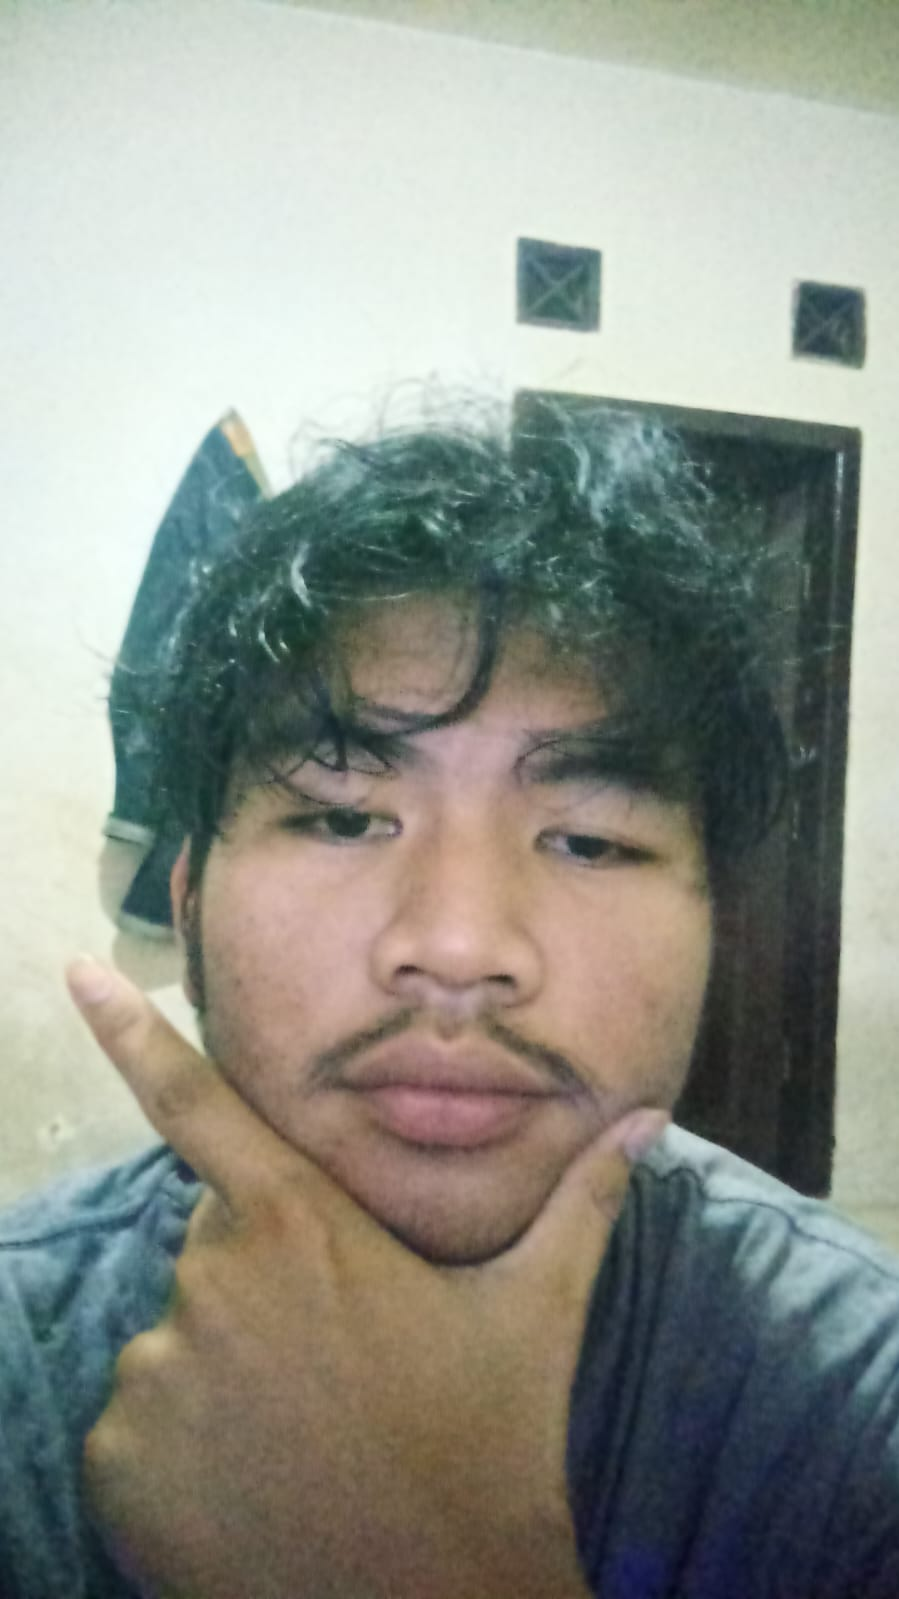
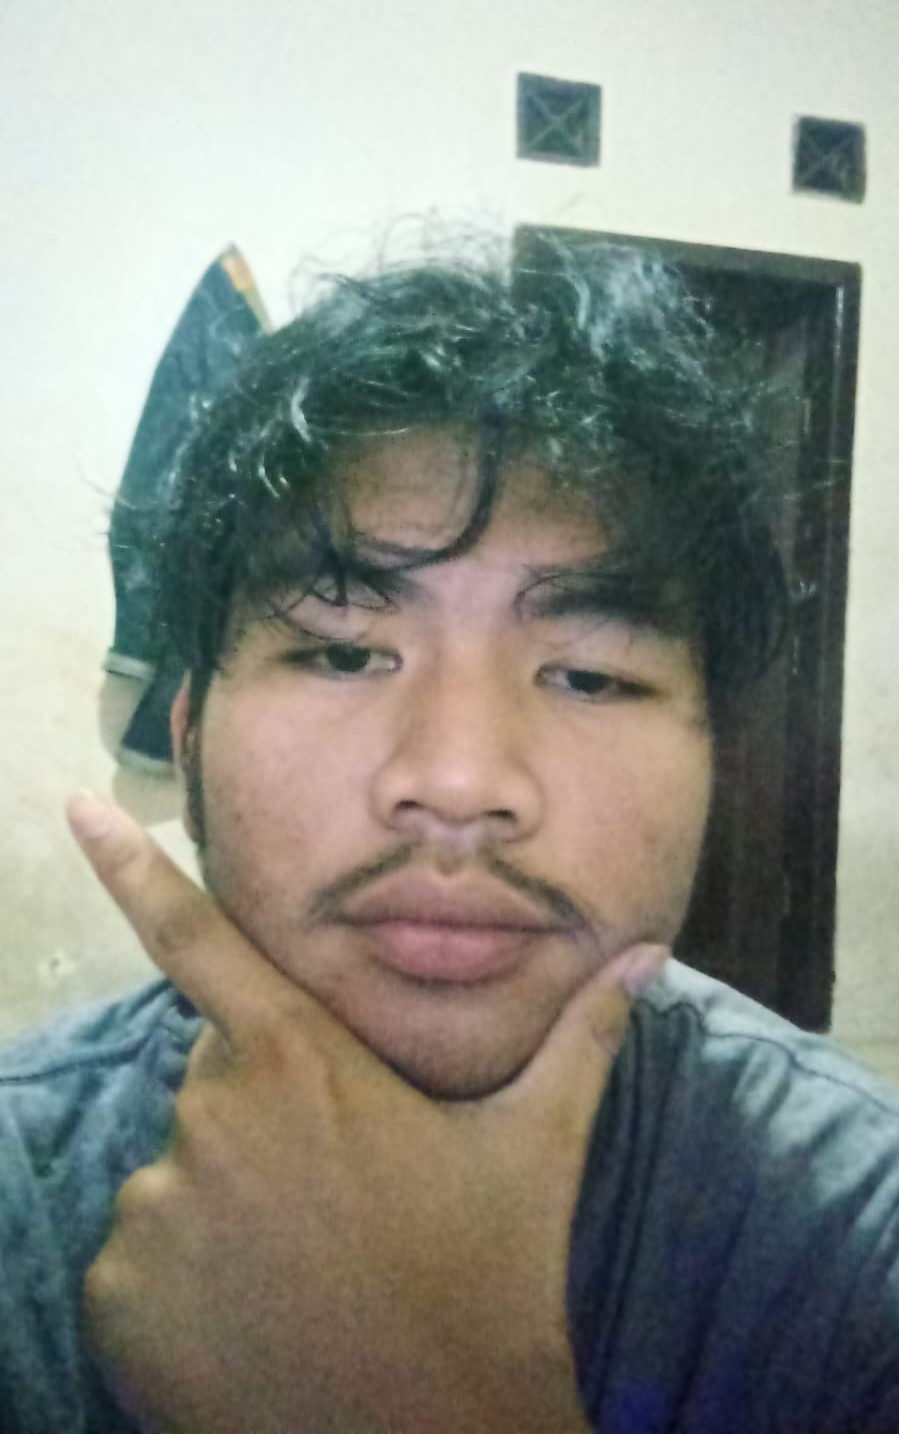
update profil nopal

diff --git a/anggota/nopal.html b/anggota/nopal.html
@@ -45,6 +45,8 @@
             <img src="../asset/img/nopal1.jpg" alt="Foto 1">
             <img src="../asset/img/nopal2.jpg" alt="Foto 2">
             <img src="../asset/img/nopal3.jpg" alt="Foto 3">
+            <img src="../asset/img/nopal4.jpg" alt="Foto 4">
+            <img src="../asset/img/nopal5.jpg" alt="Foto 5">
         </div>
     </section>
 
